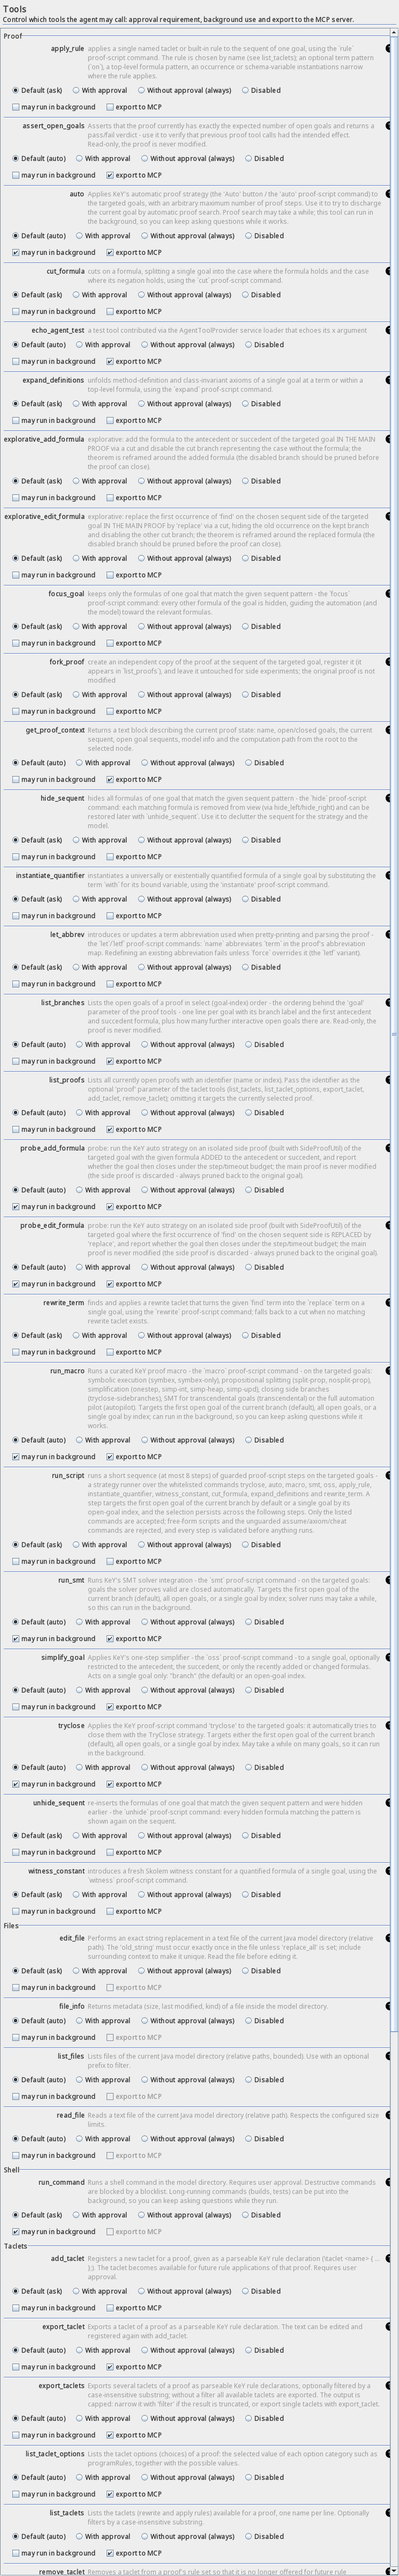
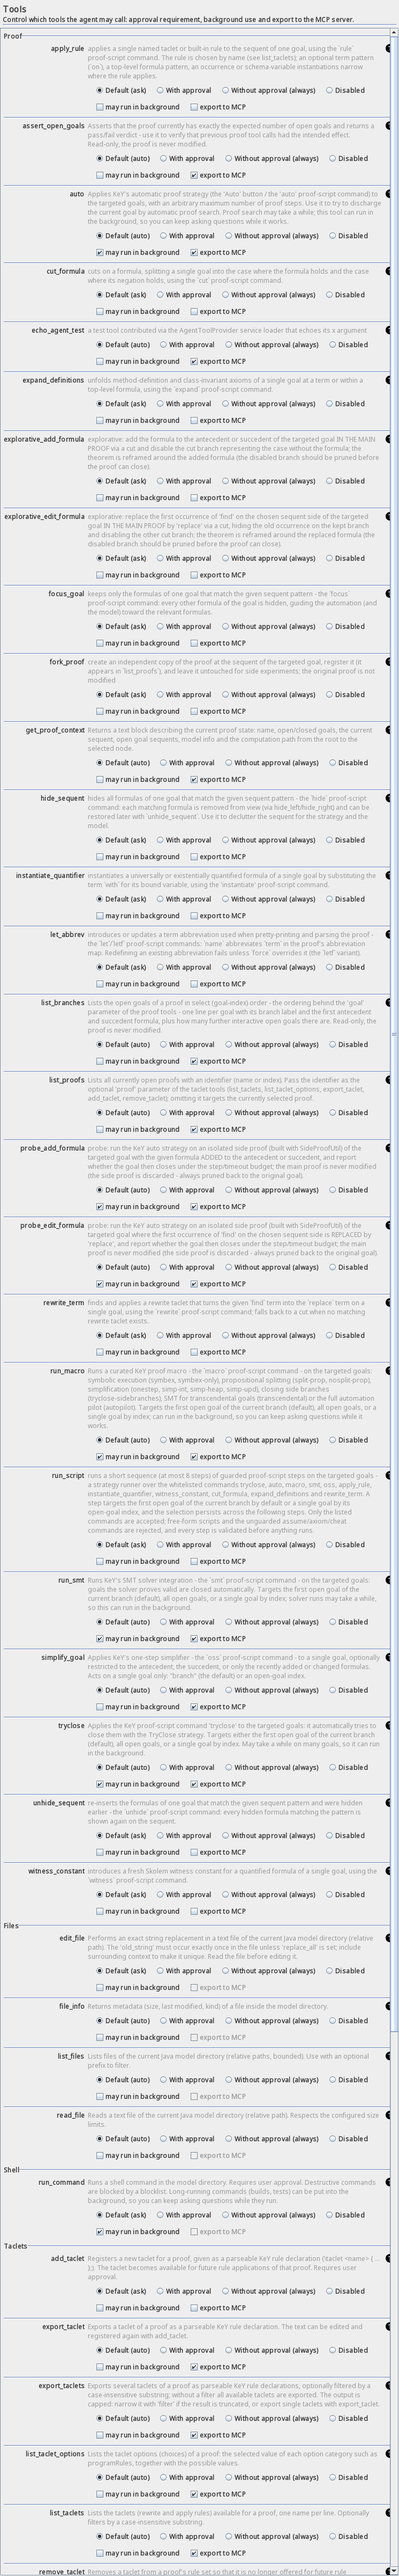
keyext.llm: align the tool permission controls with the description text
In the Tools settings panel the radio group and the checkboxes of a tool
spanned all three grid columns and started under the tool name; they now
skip the name column and line up with the tool's explanation text.

diff --git a/keyext.llm/src/main/java/org/key_project/key/llm/LlmToolsPanel.java b/keyext.llm/src/main/java/org/key_project/key/llm/LlmToolsPanel.java
@@ -78,8 +78,9 @@ public class LlmToolsPanel extends SettingsPanel {
 
     /**
      * Adds the block for one tool to the center grid: the (bold) tool name in the left column,
-     * top-aligned with its flowing explanation, and below — spanning the full width — the
-     * permission radio group and the background/export checkboxes on one line.
+     * top-aligned with its flowing explanation, and below — aligned with the explanation text
+     * (skipping the name column) — the permission radio group and the background/export
+     * checkboxes on one line.
      */
     private void addToolRow(Tool tool) {
         var name = tool.function().name();
@@ -94,8 +95,9 @@ public class LlmToolsPanel extends SettingsPanel {
         var help = SimpleSettingsPanel.createHelpLabel(tool.function().description());
         pCenter.add(help, new CC().alignY("top").wrap());
 
-        pCenter.add(radiosPanel(tool), new CC().span(3).growX().minWidth("0").wrap());
-        pCenter.add(checkboxesPanel(tool), new CC().span(3).growX().minWidth("0").wrap());
+        // skip the name column so the controls start where the description text starts
+        pCenter.add(radiosPanel(tool), new CC().skip(1).span(2).growX().minWidth("0").wrap());
+        pCenter.add(checkboxesPanel(tool), new CC().skip(1).span(2).growX().minWidth("0").wrap());
     }
 
     /**
